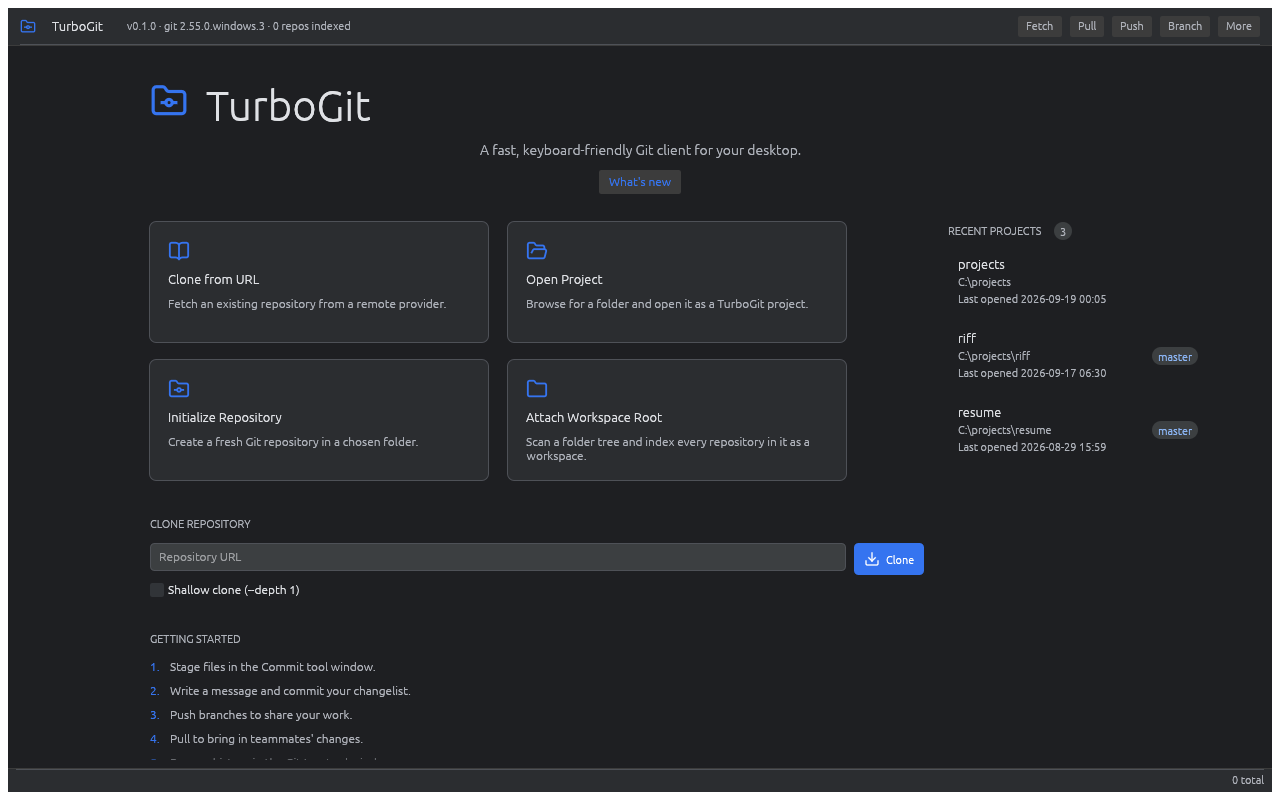
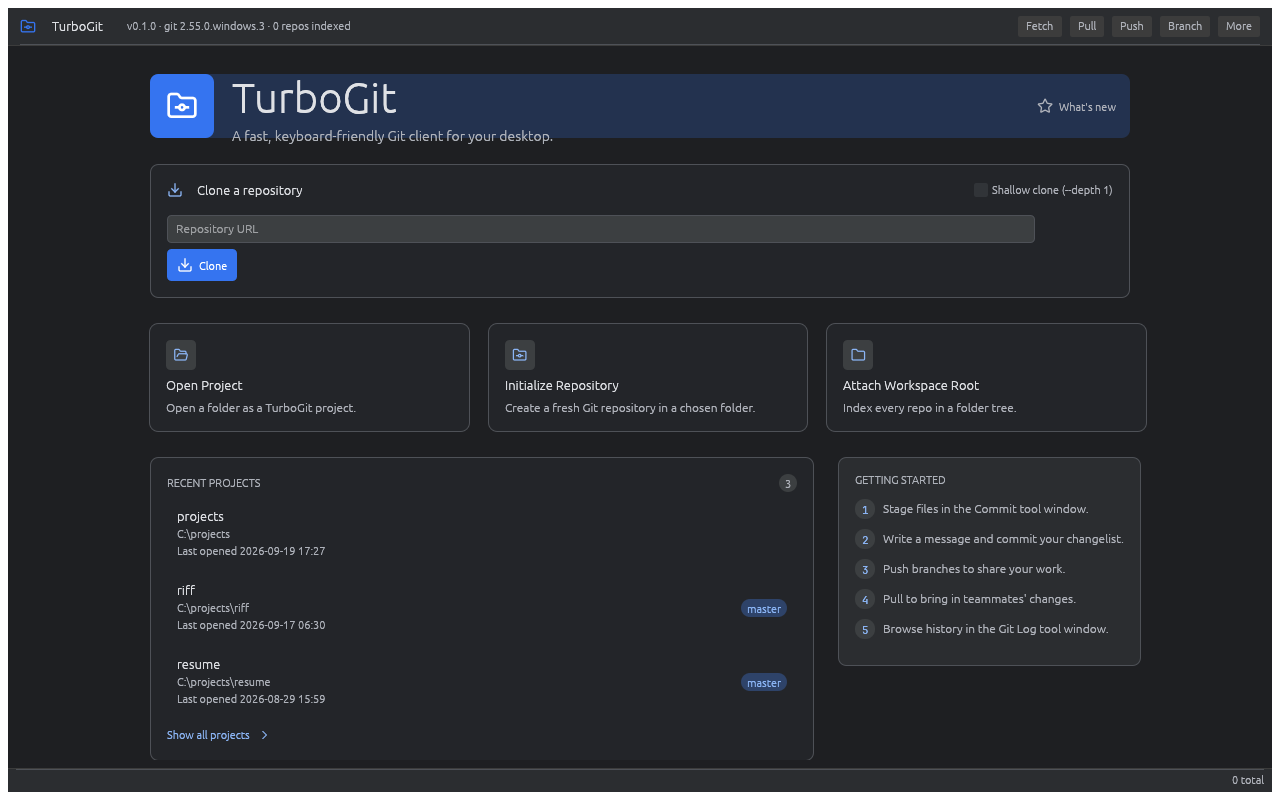
welcome: size the getting-started card to one card module under Attach
lower now shares the 3-up card grid with quick_actions via a card_module()
helper: the getting-started card is exactly one card wide (aligned under the
"Attach Workspace Root" card, matching its left/right edges), recents absorbs the
remaining two modules, and the recents↔getting gap stays one GUTTER. Replaces
the fixed GETTING_STARTED_W. Guarded by
welcome_getting_started_aligns_under_the_attach_card.

diff --git a/crates/turbogit-ui/src/ui/welcome.rs b/crates/turbogit-ui/src/ui/welcome.rs
@@ -30,8 +30,6 @@ use super::widgets;
 const CONTENT_WIDTH: f32 = 980.0;
 /// Hero brand-tile edge (spec §5.1: a 64px rounded tile).
 const HERO_TILE: f32 = 64.0;
-/// Right column (getting-started card) width in the `lower` band.
-const GETTING_STARTED_W: f32 = 340.0;
 /// Uniform horizontal gutter: the gap between the three quick-action cards and
 /// between the two `lower` columns, matching the 20px vertical section rhythm.
 const GUTTER: f32 = 20.0;
@@ -170,12 +168,13 @@ fn hero(ui: &mut Ui, state: &mut AppState) {
 // --- Lower band: recents + getting started -----------------------------------
 
 fn lower(ui: &mut Ui, state: &mut AppState) {
-    // Two columns (spec §5.6): recents fills the left, getting-started a fixed
-    // width on the right. `item_spacing.x` is pinned to 0 so `add_space(GUTTER)`
-    // is the exact gap — otherwise egui's auto spacing around the explicit gap
-    // makes the pair wider than the content column and overhangs the right edge.
+    // Two columns on the shared card grid (spec §5.6): the getting-started card
+    // is exactly one card module (sitting directly under the third quick-action
+    // card), recents fills the remaining two modules, and the gap between them
+    // stays one `GUTTER`. `item_spacing.x` is pinned to 0 so `add_space(GUTTER)`
+    // is exact — otherwise egui's auto spacing overhangs the content column.
     let avail = ui.available_width();
-    let getting_w = GETTING_STARTED_W.min((avail - GUTTER) * 0.5);
+    let getting_w = card_module(avail).min((avail - GUTTER) * 0.5);
     let recents_w = (avail - GUTTER) - getting_w;
     ui.horizontal(|ui| {
         ui.spacing_mut().item_spacing.x = 0.0;
@@ -206,13 +205,19 @@ enum CardAction {
     AttachWorkspace,
 }
 
+/// One column of the shared 3-up card grid: the content width split into three
+/// equal modules with `GUTTER` gaps. `lower` reuses this so the getting-started
+/// card is exactly one module wide — aligned under the third quick-action card.
+fn card_module(width: f32) -> f32 {
+    (width - 2.0 * GUTTER) / 3.0
+}
+
 fn quick_actions(ui: &mut Ui, state: &mut AppState) {
     // Exactly three equal-width cards in one row (spec §5.3). `item_spacing.x`
     // is pinned to 0 so `add_space(GUTTER)` is the exact gap and the three cards
     // span precisely the content column — their right edge lines up with the
     // hero and clone panel instead of overhanging it.
-    let width = ui.available_width();
-    let card_w = (width - 2.0 * GUTTER) / 3.0;
+    let card_w = card_module(ui.available_width());
     ui.horizontal(|ui| {
         ui.spacing_mut().item_spacing.x = 0.0;
         action_card_title(ui, state, CardAction::OpenProject, card_w);

diff --git a/crates/turbogit-ui/tests/welcome.rs b/crates/turbogit-ui/tests/welcome.rs
@@ -698,6 +698,53 @@ fn welcome_quick_actions_share_one_row() {
     );
 }
 
+/// The getting-started card is one column of the shared 3-up card grid: its
+/// width and left/right edges must line up with the third quick-action card
+/// ("Attach Workspace Root"), and the recents↔getting gap stays one gutter.
+#[test]
+fn welcome_getting_started_aligns_under_the_attach_card() {
+    let mut fx = bare_fixture();
+    settle(&mut fx.harness);
+
+    let attach = fx.harness.get_by_label("Attach Workspace Root").rect();
+
+    // The getting-started card is the only narrow SURFACE-filled rect (the shell
+    // top/status bars are full-width SURFACE bands).
+    let getting = fx
+        .harness
+        .output()
+        .shapes
+        .iter()
+        .filter_map(|c| match &c.shape {
+            Shape::Rect(r)
+                if r.fill == turbogit_ui::theme::Palette::SURFACE && r.rect.width() < 600.0 =>
+            {
+                Some(r.rect)
+            }
+            _ => None,
+        })
+        .next()
+        .expect("the getting-started card must paint a SURFACE frame");
+
+    let (aw, gw) = (attach.width(), getting.width());
+    assert!(
+        (aw - gw).abs() <= 3.0,
+        "getting-started width {gw} should match the attach card width {aw}"
+    );
+    assert!(
+        (attach.min.x - getting.min.x).abs() <= 3.0,
+        "getting-started left {} must align under attach left {}",
+        getting.min.x,
+        attach.min.x
+    );
+    assert!(
+        (attach.max.x - getting.max.x).abs() <= 3.0,
+        "getting-started right {} must align under attach right {}",
+        getting.max.x,
+        attach.max.x
+    );
+}
+
 // ----------------------------------- issue: shared typography roles (T2) ----
 
 /// Paint-time font sizes (points) of every galley carrying exactly `text`.
